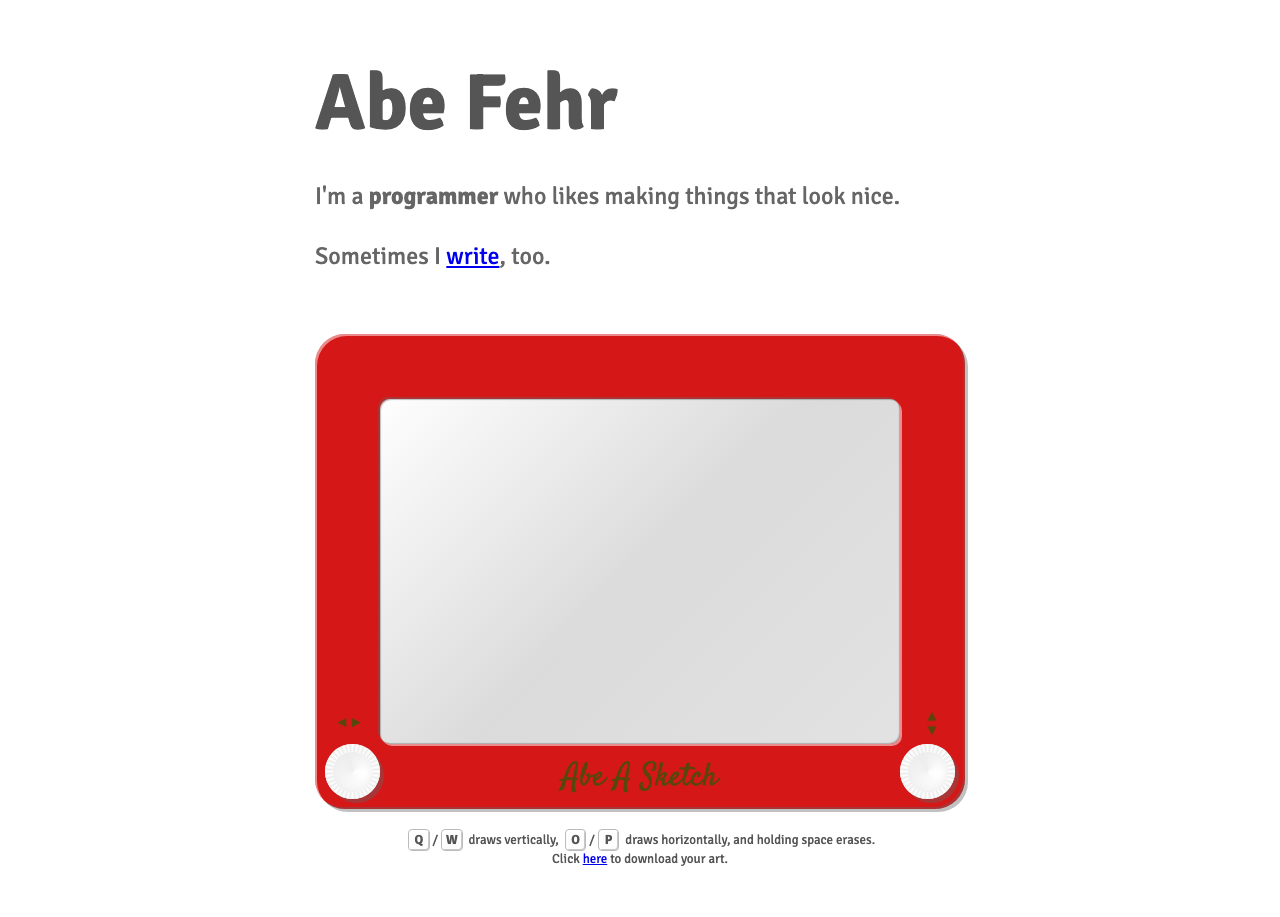
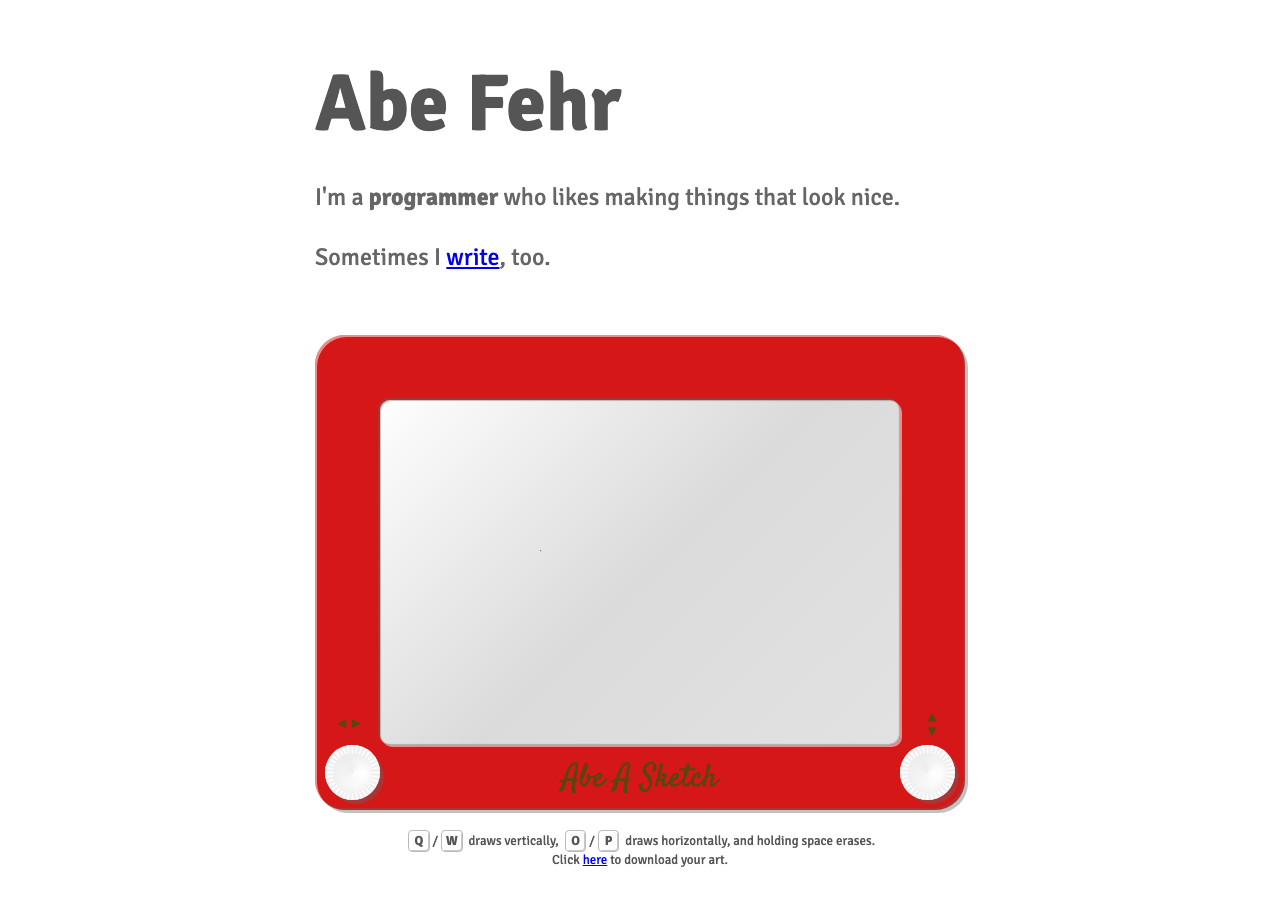
Slight animation tweak

diff --git a/_layouts/default.html b/_layouts/default.html
@@ -27,14 +27,8 @@
       }
 
       h1 {
-        opacity: 0;
-        font-size: 79px;
+        font-size: 80px;
         margin: 24px 0;
-        animation-name: slideFadeIn;
-        animation-duration: 500ms;
-        animation-delay: 0.3s;
-        animation-fill-mode: forwards;
-        animation-timing-function: ease-in-out;
         color: #555;
       }
 
@@ -45,7 +39,7 @@
         line-height: 1.5;
         animation-name: slideFadeIn;
         animation-duration: 500ms;
-        animation-delay: 0.6s;
+        animation-delay: 0.3s;
         animation-fill-mode: forwards;
         animation-timing-function: ease-in-out;
       }
@@ -86,7 +80,7 @@
       .etch-a-sketch {
         animation-name: EtchASketch;
         animation-duration: 800ms;
-        animation-delay: 1.2s;
+        animation-delay: 0.9s;
         opacity: 0;
         animation-fill-mode: forwards;
         width: 650px;
@@ -116,7 +110,7 @@
         opacity: 0;
         animation-name: fadeIn;
         animation-duration: 600ms;
-        animation-delay: 3.4s;
+        animation-delay: 3.1s;
         animation-fill-mode: forwards;
         bottom: 7px;
         left: 50%;
@@ -129,7 +123,7 @@
       .etch-a-sketch .screen {
         animation-name: Screen;
         animation-duration: 900ms;
-        animation-delay: 2s;
+        animation-delay: 1.7s;
         animation-fill-mode: forwards;
         opacity: 0;
         border-radius: 10px;
@@ -209,7 +203,7 @@
         opacity: 0;
         animation-name: fadeIn;
         animation-duration: 600ms;
-        animation-delay: 3.4s;
+        animation-delay: 3.1s;
         animation-fill-mode: forwards;
         position: absolute;
         bottom: 78px;
@@ -232,7 +226,7 @@
         opacity: 0;
         animation-name: fadeIn;
         animation-duration: 500ms;
-        animation-delay: 3.7s;
+        animation-delay: 3.4s;
         animation-fill-mode: forwards;
       }
 

diff --git a/TODO.md b/TODO.md
@@ -1,3 +1,18 @@
+home page re-do
+- requirements
+  - make it cohesive with the blog
+  - clean, modern design
+  - blog post list on main page maybe
+  - something unique
+    - I considered an SVG drawing of myself
+    - interactive simulation background type of thing
+      - bebas neue font could be cute
+      - blackletter/gothic could be interesting
+      - frederika the great
+      - cabin sketch
+      - londrina shadow/sketch
+      - freehand
+
 blog post nice-to-haves
 - add final picture of the project
 - upload my code to Github
@@ -19,20 +34,19 @@ inspo
 interesting, but probably not what I want: https://www.aadillpickle.com/
 
 etch a sketch
-- don't show PC directions on mobile
 - gallery to share images
 - shaking the mobile phone should clear your image
+  - or a button that you hold to shake it
 
 other ideas:
-- list sites I like
+- comments
+- table of contents on posts
+- list sites/posts I like
 - blogroll
 - search
-- newsletter (kind of insane)
-- comments
 - share links
+- newsletter (kind of insane)
 - link to previous/next posts
-- naming list of articles "archive"
-- blog post titles might need to be a link to itself (idk what's normal)
 - brief about on blog pages, maybe in a sidebar (idk)
 
 blog posts I like:

diff --git a/README.md b/README.md
@@ -6,7 +6,7 @@
 bundle exec jekyll serve
 ```
 
-## How I make the gifs from videos
+## How I make blog post gifs from videos
 
 ```
 rm -rf frames
